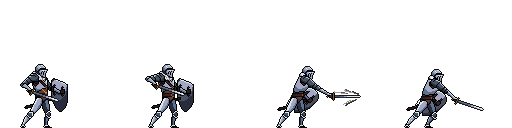
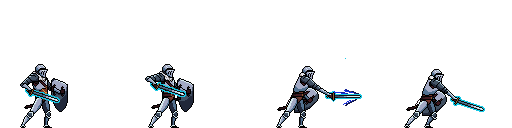
ult + ult bar von knight hinzugefügt

diff --git a/clash_arena/src/characters/knight.py b/clash_arena/src/characters/knight.py
@@ -10,6 +10,7 @@ class Knight:
         self.screenheight = screenheight
 
         self.counter = 0
+        self.ignore = False
 
         self.punch_dict: dict = {"thrown" : False,
                             "range": 48,
@@ -53,6 +54,9 @@ class Knight:
                                    'ypos' : 0,
                                    'range' : 48,
                                    'counter' : 0}
+
+        self.ult = False
+        self.ult_counter = 0
         self.ult_bar = 0
         self.name = ""
 
@@ -113,6 +117,14 @@ class Knight:
         self.special_right_animation = Sprite(filepath="assets/knight/special.png", image_count=4,
                                               image_rect=pygame.Rect(0, 0, 128, 128), animation_speed=4)
         self.special_right_animation.load_spritesheet(2.5, False)
+
+        self.blitz = Sprite(filepath="assets/knight/blitz.png", image_count=5,
+                            image_rect=pygame.Rect(0, 0, 256, 512), animation_speed=8)
+        self.blitz.load_spritesheet(1, False)
+
+        self.charge = Sprite(filepath="assets/knight/attack_blitz_charge.png", image_count=5,
+                             image_rect=pygame.Rect(0, 0, 128, 128), animation_speed=8)
+        self.charge.load_spritesheet(2.5, False)
 
         self.frame_counter = 0
 
@@ -183,6 +195,16 @@ class Knight:
                     self.frame_counter = 0
                     self.animation_playing = "jump"
 
+            elif pressed_keys[pygame.K_s]:
+
+                if self.blocking == True:
+                    pass
+                elif self.ult_bar < 100:
+                    pass
+                else:
+                    self.ult = True
+                    self.ult_bar = 0
+
             elif pressed_keys[pygame.K_q]:
                 if self.special_dict['used'] == True:
                     pass
@@ -248,6 +270,16 @@ class Knight:
                 else:
                     self.jumping = True
                     self.jump_sound.play()
+
+            elif pressed_keys[pygame.K_k]:
+
+                if self.blocking == True:
+                    pass
+                elif self.ult_bar < 100:
+                    pass
+                else:
+                    self.ult = True
+                    self.ult_bar = 0
 
             elif pressed_keys[pygame.K_u]:
                 if self.special_dict['used'] == True:
@@ -328,7 +360,10 @@ class Knight:
 
         if self.player_type == 1:
             pygame.draw.rect(surface=self.screen, rect = (132, 32, bar_length, 48), color="red")
+            pygame.draw.rect(surface=self.screen, rect=(132, 132, self.ult_bar * 4, 48), color="blue")
             name = self.SV.FONT_MIDDLE.render(f"{self.name}", True, "white")
+            ult_text = self.SV.FONT_SMALL.render(f"ULT: {self.ult_bar}%", True, "white")
+            self.screen.blit(ult_text, (132, 128))
             self.screen.blit(name, (128, 28))
             stars_text = self.SV.FONT_SMALL.render(f"Haltbarkeit des Schwertes: {self.special_dict['durability']}", True,
                                                     "dark red")
@@ -338,8 +373,11 @@ class Knight:
 
         elif self.player_type == 2:
             pygame.draw.rect(surface=self.screen, rect = (self.screenwidth - 532, 32, bar_length, 48), color="red")
+            pygame.draw.rect(surface=self.screen, rect=(self.screenwidth-532, 132, self.ult_bar * 4, 48), color="blue")
             name = self.SV.FONT_MIDDLE.render(f"{self.name}", True, "white")
             self.screen.blit(name, (self.screenwidth - 532, 28))
+            ult_text = self.SV.FONT_SMALL.render(f"ULT: {self.ult_bar}%", True, "white")
+            self.screen.blit(ult_text, (self.screenwidth - 532, 128))
             stars_text = self.SV.FONT_SMALL.render(f"Haltbarkeit des Schwertes: {self.special_dict['durability']}", True,
                                                     "dark red")
 
@@ -413,14 +451,50 @@ class Knight:
             else:
                 self.special_dict['ignore next'] = False
 
-
-
     def update_and_draw(self, enemy) -> str|None:
         self.inputs()
         self.punch()
 
+        if self.ult == True:
 
-        if self.punch_dict['thrown'] == True and self.last_direction == "right":
+            self.punch_right_animation = Sprite(filepath="assets/knight/attack_feuer_mode.png", image_count=5,
+                                                image_rect=pygame.Rect(0,0,128,128), animation_speed=4)
+            self.punch_right_animation.load_spritesheet(2.5, False)
+
+            self.punch_left_animation = Sprite(filepath="assets/knight/attack_feuer_mode.png", image_count=5,
+                                                image_rect=pygame.Rect(0, 0, 128, 128), animation_speed=4)
+            self.punch_left_animation.load_spritesheet(2.5, True)
+            self.damage = 8
+            self.ult_bar = 0
+            if self.ult_counter <= 60:
+                self.charge.draw(self.screen, self.xpos, self.ypos, self.frame_counter)
+                self.blitz.draw(self.screen, self.xpos - 64, self.ypos - 332, self.frame_counter)
+                self.ult_counter += 1
+
+            elif self.ult_counter >= 180:
+                self.ult = False
+                self.ult_counter = 0
+                self.ignore = False
+
+            else:
+                self.ult_counter += 1
+
+        else:
+            if self.ignore == False:
+                self.punch_right_animation = Sprite(filepath="assets/knight/attack.png", image_count=5,
+                                                image_rect=pygame.Rect(0, 0, 128, 128), animation_speed=6)
+                self.punch_right_animation.load_spritesheet(2.5, False)
+                self.punch_left_animation = Sprite(filepath="assets/knight/attack.png", image_count=5,
+                                               image_rect=pygame.Rect(0, 0, 128, 128), animation_speed=6)
+                self.punch_left_animation.load_spritesheet(2.5, True)
+                self.damage = 2
+                self.ignore = True
+
+
+        if 0 < self.ult_counter <= 60:
+            pass
+
+        elif self.punch_dict['thrown'] == True and self.last_direction == "right":
             self.punch_right_animation.draw(self.screen, self.xpos, self.ypos, frame_counter=self.frame_counter)
 
         elif self.punch_dict['thrown'] == True and self.last_direction == "left":

diff --git a/clash_arena/src/screens/screens.py b/clash_arena/src/screens/screens.py
@@ -712,6 +712,7 @@ class Screens:
                 text_rect = text.get_rect(center=(self.screenwidth/2, 300 +i ))
                 self.screen.blit(source=text, dest=text_rect)
 
+            pygame.draw.rect(surface=self.screen, rect=zurueck_rect, color="black")
             self.screen.blit(source=zurueck_text, dest=zurueck_rect)
 
 
@@ -763,6 +764,7 @@ class Screens:
             pygame.draw.rect(surface=self.screen, rect=tipp_rect, color="black")
             self.screen.blit(tipp, tipp_rect)
 
+            pygame.draw.rect(surface=self.screen, rect=zurueck_rect, color="black")
             self.screen.blit(source=zurueck, dest=zurueck_rect)
             self.screen.blit(source=ninja, dest = ninja_rect)
             self.screen.blit(source=knight, dest=knight_rect)
@@ -843,6 +845,7 @@ class Screens:
             pygame.draw.rect(surface=self.screen, rect=text2_rect, color="black")
             pygame.draw.rect(surface=self.screen, rect=text3_rect, color="black")
             pygame.draw.rect(surface=self.screen, rect=text4_rect, color="black")
+            pygame.draw.rect(surface=self.screen, rect=zurueck_rect, color="black")
 
             self.screen.blit(source=text, dest= text_rect)
             self.screen.blit(source=text2, dest = text2_rect)

diff --git a/clash_arena/src/characters/vampire.py b/clash_arena/src/characters/vampire.py
@@ -312,6 +312,17 @@ class Vampire:
                     self.frame_counter = 0
                     self.animation_playing = "jump"
 
+            elif pressed_keys[pygame.K_k]:
+                if self.bat.alive == True:
+                    pass
+                elif self.ult_bar < 100:
+                    pass
+                else:
+                    self.ult_bar = 0
+                    self.bat.alive = True
+                    self.bat.xpos = self.xpos
+                    self.bat.ypos = self.ypos - 50
+
             elif pressed_keys[pygame.K_u]:
                 if self.special_dict['used'] == True:
                     pass
